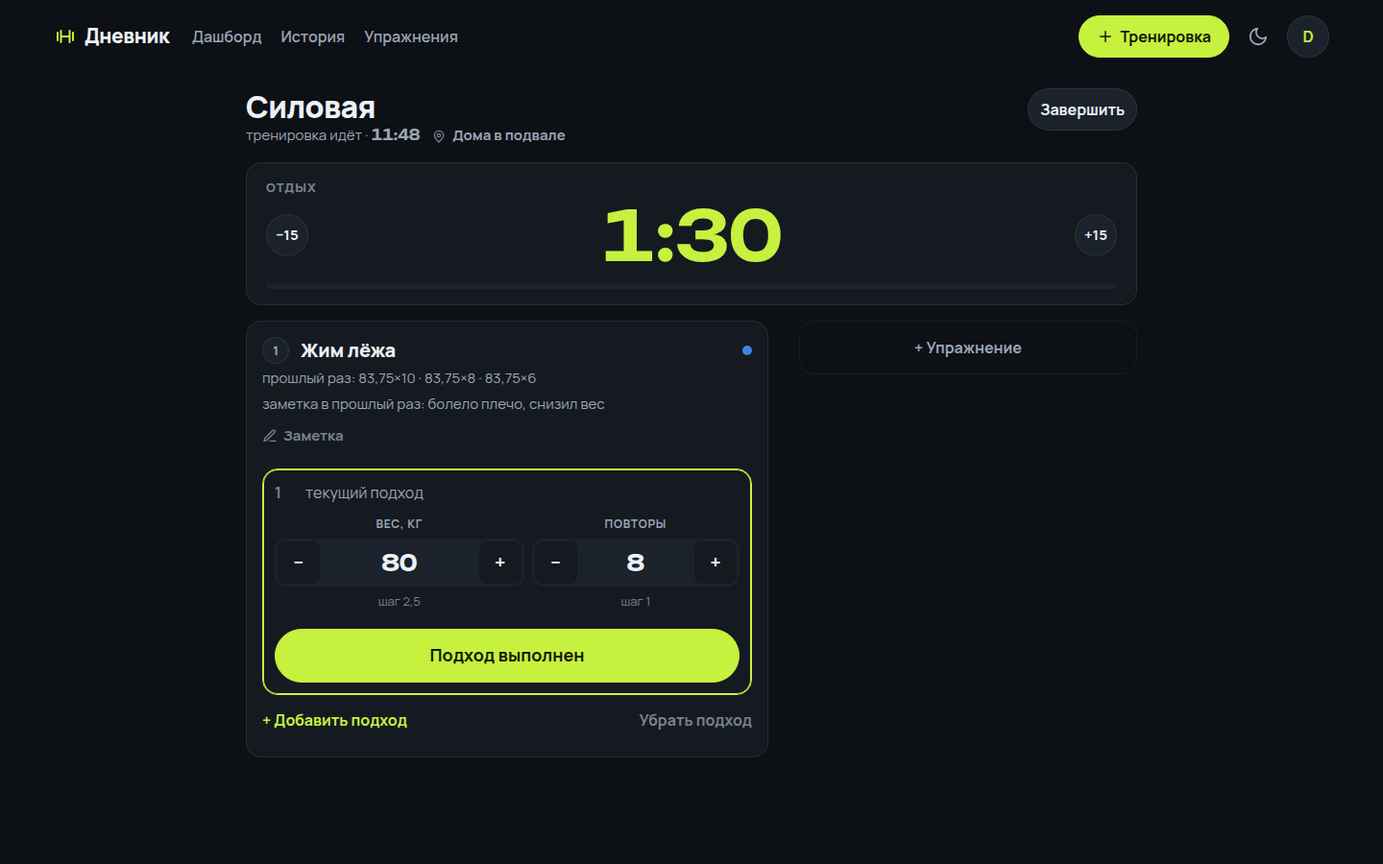
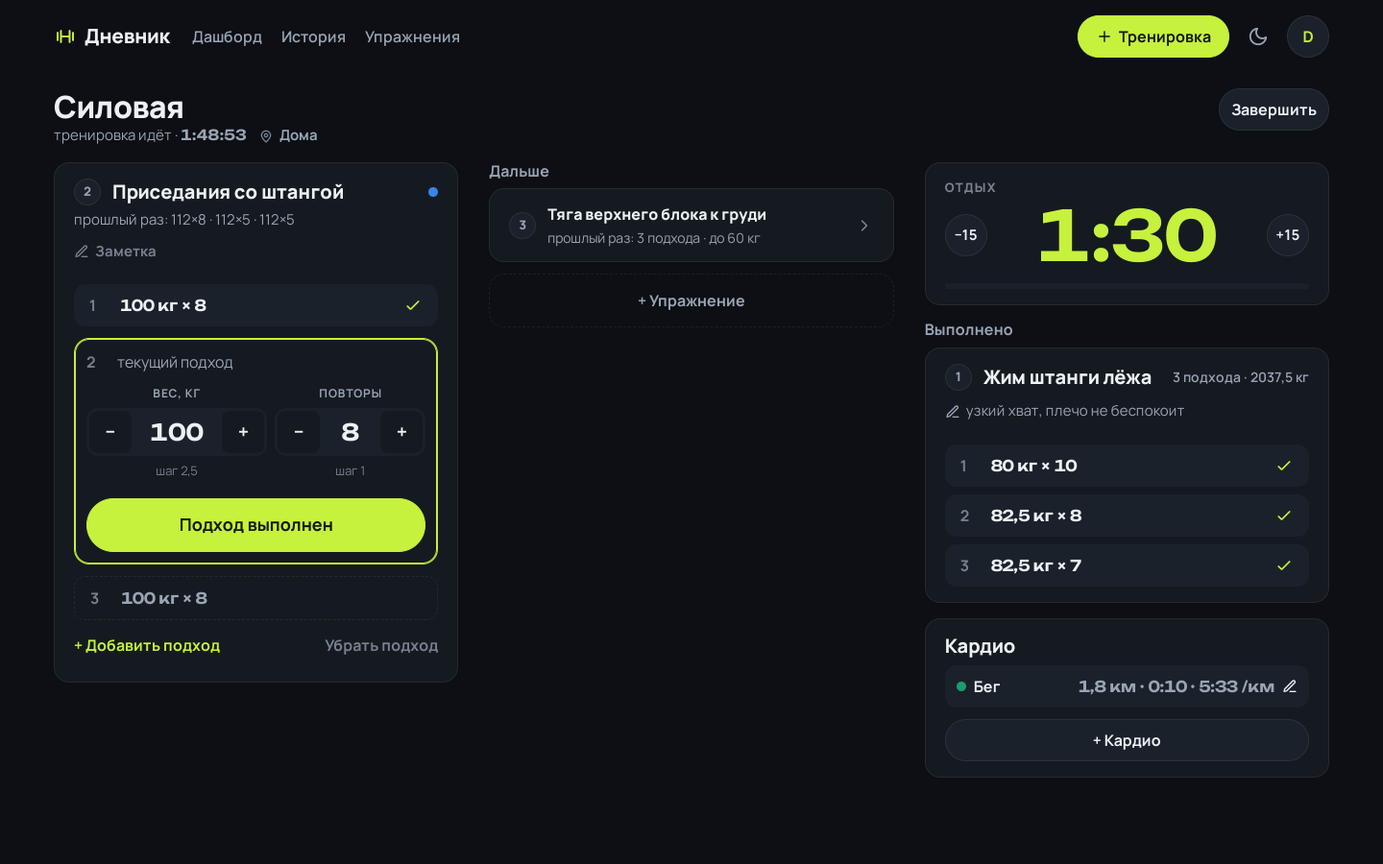
CLAUDE.md: ПК-версия во всю ширину, новые скриншоты
Раздел «Десктоп» переписан под дашборд-раскладку: мер осталось две
(dialog и dual), :where у правила меры, предел страницы 1600px, токены
широкого окна, плитки и колонок досок, высота шапки из её отступа;
обёртки с display: contents и неизменный порядок DOM, свои классы вместо
утилит с !important, последовательности колонками. По экранам: живой
экран (две колонки / три зоны, таймер не липкий — и почему), итог,
дашборд и история на средних экранах, справочник, страница упражнения,
профиль, окна, вход. Проверка телефона — сравнением геометрии с эталонным
сервером. Пересняты скриншоты живого экрана, итога, профиля и новостей.

diff --git a/CLAUDE.md b/CLAUDE.md
@@ -60,7 +60,7 @@
 ## Дизайн (эталон утверждён 25.08.2026)
 
 - Визуальный эталон — макеты семи экранов (дашборд моб. и десктоп, живой режим, кардио-форма, история, профиль, «что нового»); PNG-экспорты лежат в `docs/design/`. Верстать по ним: компоновка, плотность, скругления, иерархия текста.
-- Файлы `docs/design/*-desktop.png`, **кроме `dashboard-desktop.png`**, — не макеты дизайнера, а утверждённые скриншоты реализации: десктопных макетов для этих экранов не рисовали. Сверять с ними компоновку можно, но при расхождении с правилами ниже главнее правила.
+- Файлы `docs/design/*-desktop.png`, **кроме `dashboard-desktop.png`**, — не макеты дизайнера, а утверждённые скриншоты реализации: десктопных макетов для этих экранов не рисовали. Живой экран, итог, профиль и «Что нового» пересняты 03.10.2026, когда ПК-версия стала дашбордом во всю ширину; каталог и история на 1440 с тех пор не менялись. Сверять с ними компоновку можно, но при расхождении с правилами ниже главнее правила.
 - Тёмная тема — основная (как в макетах); светлая строится из тех же ролей токенов, ниже даны оба набора. Bootstrap-переменные (`--bs-body-bg`, `--bs-body-color` и т.п.) переопределяются из tokens.css под оба значения `data-bs-theme`.
 - **Шрифты** (Google Fonts, woff2-файлы хранить локально в `static/fonts/`): Unbounded 600/700 — крупные числа и таймеры (утилитарный класс `.num`); Manrope 400–800 — весь остальной текст. Fallback: `system-ui, sans-serif`. Unbounded лежит одним сабсетом (`unbounded-subset.woff2`): в `.num` попадают только цифры, знаки и единицы вроде «кг», «повторов», поэтому штатные сабсеты Google качали 82 КБ ради букв, которых там не бывает. Набор символов взят с запасом — вся базовая кириллица, — так что новое слово внутри `.num` ничего не сломает; команда перегенерации записана в шапке `static/css/fonts.css`. Три реально нужных файла шрифтов предзагружаются (`rel="preload"` в `_page.html`), остальные сабсеты Manrope браузер не запрашивает.
 - **Токены тёмной темы** (из макетов): фон `#0D1015`; карточка `#151A21`; приподнятая поверхность `#1B222B`; линия `rgba(255,255,255,.08)`; текст `#EDF1F7`, вторичный `#9AA5B5`, приглушённый `#77828F`; акцент `#C6F13E` (текст на акценте `#141A08`); успех/положительная дельта `#0ca30c`.
@@ -71,13 +71,23 @@
 
 ## Десктоп (768 / 1200)
 
-- **Два брейкпоинта и никаких новых**: `@media (min-width: 768px)` (появляются верхняя навигация и CTA, исчезает нижняя) и `(min-width: 1200px)` (многоколоночные раскладки). Правки десктопа живут только внутри них — **мобильный вид неприкосновенен**, и это проверяется скриншотом 375px до/после.
-- **Ширину задаёт страница, а не компонент.** `{% block main_class %}` ставит меру: `app-main-narrow` (26rem — подтверждения, смена пароля), `app-main-form` (34rem — формы и справочники), `app-main-read` (44rem — история и новости), `app-main-dual` (34rem → 70rem на 1200px — профиль, живой режим, итог), `app-main-feed`/`app-main-catalog` (свои раскладки на 1200px). Правило одно: `.app-main > * { max-width: var(--app-measure); margin-inline: auto }`. Не возвращать `max-width` компонентам — из-за этого один `.app-rows` тянул одну ширину в трёх разных раскладках.
-- **Отступы и ширины — только токенами**: `--app-space-*` (шкала по 0.25rem), `--app-measure-*`, `--app-gutter` (1 → 1.5 → 3.5rem, один и тот же у шапки и `.app-main`, иначе на 1920px они расходятся). Предел страницы — `--app-measure-page` (1440px), по нему выровнена и шапка. Внутренний боковой отступ карточки — `--app-card-inset` (16px, с 768px 20px), **один на все карточки экрана**: раньше плитки брали 20px, строки 16px, и левые края текста соседних карточек стояли на разных вертикалях. Голая `.app-card` отступов не имеет — их даёт роль карточки, а для простой «заголовок, текст, кнопка» есть `.app-panel`.
-- **История на 1200px — плотные строки**: колонки задаёт список (`.app-feed`), карточки берут их через `grid-template-columns: subgrid`, поэтому цифры выравниваются через все недели без магических ширин. Всё под `@supports (subgrid)`. Состав метрик у силовой и кардио различается, поэтому колонки позиционные: 3-я — время, 4-я — «сколько», 5-я — «насколько интенсивно». Место и заметка **делят 6-ю колонку** (`.app-workout-meta`): своего трека месту не дают, потому что `max-content` зарезервировал бы его ширину во всех строках, а у истории до появления справочника места нет вовсе. На телефоне обёртка не образует бокса (`display: contents`), поэтому карточка рендерится как до фичи; на 1200px внутри колонки это один текстовый прогон с единственной точкой обрезки, а зазор даёт `margin`, а не символ-разделитель — тот остался бы висеть при обрезке. Классы в 1200-блоке перечислены явно, без `> *`: мобильное правило `.app-workout-meta > .app-place` весит два класса и перебило бы селектор с универсальным.
+- **Два брейкпоинта и никаких новых**: `@media (min-width: 768px)` (появляются верхняя навигация и CTA, исчезает нижняя) и `(min-width: 1200px)` (многоколоночные раскладки). Правки десктопа живут только внутри них — **мобильный вид неприкосновенен**, и это проверяется не на глаз, а сравнением геометрии: все страницы и состояния окон на 375/390px против эталонного сервера на исходном коммите (git worktree) — расхождение в любом элементе значит правку телефона.
+- **ПК-версия — полноценный дашборд, а не растянутый телефон** (решение 03.10.2026). Каждая страница идёт во всю колонку страницы и раскладывается своими сетками: карточки рядом, а не узкой колонкой по центру широкого экрана. Окна — широкие диалоги, а не 26rem-шторки. Навигация — прежняя верхняя панель из макета дашборда.
+- **Ширину задаёт страница, а не компонент.** По умолчанию страница идёт во всю колонку (`--app-measure: none`). Мер осталось две, и обе ставит `{% block main_class %}`: `app-main-dialog` (34rem по центру экрана и по вертикали — подтверждения удаления, выход, пароль, ошибки, служебные страницы allauth: узкая колонка у верхнего края широкой страницы выглядела потерянной) и `app-main-dual` (70rem — двухколоночная форма кардио: поле шире 34rem удобнее не становится). Правило одно: `:where(.app-main) > * { max-width: var(--app-measure); margin-inline: auto }` — `:where` обнуляет специфичность, и собственное ограничение компонента (`.app-form-actions`, `.app-empty`) побеждает при любом порядке в файле. Не возвращать `max-width` компонентам — из-за этого один `.app-rows` тянул одну ширину в трёх разных раскладках.
+- **Отступы и ширины — только токенами**: `--app-space-*` (шкала по 0.25rem), `--app-measure-*`, `--app-gutter` (1 → 1.5 → 3.5rem, один и тот же у шапки и `.app-main`, иначе на 1920px они расходятся). Предел страницы — `--app-measure-page` (1600px), по нему выровнена и шапка: на 1920 остаются поля, а сетки ещё не растягиваются до нечитаемых. Широкое окно — `--app-measure-wide` (56rem), минимальная плитка в `auto-fill` — `--app-measure-tile` (14rem: уже ~210px двухстрочные имена справочника не помещаются). Число колонок всех «досок» (одинаковых карточек: итог, история на средних экранах, новости, строки справочников, история подходов) — один токен `--app-board-cols`: 1 на телефоне, 2 с 768, 3 с 1200. Высота шапки на десктопе считается из её отступа и тач-таргета (`--app-header-height`, 68/76px), а не задаётся числом: по ней встают якоря и липкая шапка панели, а прежние 56px уводили их под шапку; на телефоне токен прежний. Внутренний боковой отступ карточки — `--app-card-inset` (16px, с 768px 20px), **один на все карточки экрана**: раньше плитки брали 20px, строки 16px, и левые края текста соседних карточек стояли на разных вертикалях. Голая `.app-card` отступов не имеет — их даёт роль карточки, а для простой «заголовок, текст, кнопка» есть `.app-panel`.
+- **Обёртки для сеток — `div` без роли с `display: contents` ниже 768** (`.app-summary`, `.app-summary-list`, `.app-modal-cols/col`, `.app-picker-list`, `.app-catalog-group`, `.app-transfer`, `.app-form-cols/col`, `.app-news-list`, `.app-auth-aside`): на телефоне они не образуют боксов, дерево и отступы прежние, а на ПК становятся колонками. Порядок DOM не меняется — на него опираются тесты. Никогда не на кнопки, ссылки, списки и секции с подписью. Структурные селекторы, которые обёртка сломала бы, переводятся на неё: `.app-group-title:first-of-type` стал `.app-catalog-group:first-child > .app-group-title`, иначе отступ сняло бы у заголовка каждой группы — и на телефоне.
+- **Утилиты Bootstrap с `!important` на элементах, которые на ПК меняют размер, заменены своими классами** с тем же мобильным значением: `app-btn-fill` вместо `w-100` (кнопки, которые на ПК встают в ряд по содержимому), `app-start-mode` вместо `mt-3`. Из медиазапроса утилиту не перебить.
+- **Последовательность — колонками, а не строками сетки.** Упражнения в итоге тренировки раскладываются CSS `columns`: колонки заполняются сверху вниз, и 1, 2, 3 идут по первой; сетка по строкам дала бы 1, 3, 5 по левому столбцу. Новости, наоборот, — доска по рядам: новое слева сверху, хронология читается от новой к старой.
+- **История на средних экранах — доска из двух колонок** (недели, «Показать ещё» и пустое состояние — во всю строку; подгрузка вставляет карточки прямо в сетку). **На 1200px — плотные строки**: колонки задаёт список (`.app-feed`), карточки берут их через `grid-template-columns: subgrid`, поэтому цифры выравниваются через все недели без магических ширин. Всё под `@supports (subgrid)`. Состав метрик у силовой и кардио различается, поэтому колонки позиционные: 3-я — время, 4-я — «сколько», 5-я — «насколько интенсивно». Место и заметка **делят 6-ю колонку** (`.app-workout-meta`): своего трека месту не дают, потому что `max-content` зарезервировал бы его ширину во всех строках, а у истории до появления справочника места нет вовсе. На телефоне обёртка не образует бокса (`display: contents`), поэтому карточка рендерится как до фичи; на 1200px внутри колонки это один текстовый прогон с единственной точкой обрезки, а зазор даёт `margin`, а не символ-разделитель — тот остался бы висеть при обрезке. Классы в 1200-блоке перечислены явно, без `> *`: мобильное правило `.app-workout-meta > .app-place` весит два класса и перебило бы селектор с универсальным.
 - **Справочник упражнений на 1200px — мастер-деталь**: `ExerciseDetailView` смотрит `HX-Request` и отдаёт `_exercise_detail_body.html` вместо страницы; отдельного URL у панели нет, чтобы проверка доступа осталась в одном месте. Клик перехватывается в JS: в htmx `preventDefault()` для клика по `<a>` срабатывает раньше фильтра события, поэтому `hx-trigger="click[matchMedia…]"` убил бы навигацию на мобильном. График после свопа пересобирается через `appCharts.destroy()` — иначе Chart.js падает на переиспользованном canvas. Левая колонка 30rem и **без внутренней прокрутки**: своя полоса торчала посреди экрана, а липкой колонку делать нельзя — залипший элемент выше вьюпорта перестаёт двигаться, и всё ниже кромки становится недостижимым. По той же причине липкая только шапка панели (`.app-exercise-head`), а не панель: у упражнения с двумя десятками тренировок она уходит на три экрана. Элементы списка общаются с JS через `data-exercise-item` / `data-exercise-link`, а не через классы: классы стилевые и меняются вместе с вёрсткой, а в мастер-деталь одинаково попадают и плитка, и строка. Порядок блоков на 1200px задаёт `order` у прямых детей `.app-exercise`, поэтому **новый блок обязан быть одной секцией со своим `order`**: заголовок и список по отдельности разъедутся по разным местам экрана. Ритм между блоками — `gap` флекс-колонки `.app-exercise` на всех ширинах, а не поля блоков: при перестановке `order` поле «снизу» оказывалось не у того соседа, и график вставал вплотную к настройкам. Сводка «По местам» (рекорд и число тренировок в каждом месте) считается в Python по уже загруженным подходам — `select_related("workout__location")` добавляет один LEFT JOIN в тот же запрос, поэтому бюджет 9 не двигается; показывается только при двух и более разрезах, «Место не указано» — такой же разрез, как остальные.
 - **Каталог упражнений делится на два блока**: сверху «Я тренирую» — плитки упражнений с записанными тренировками (рекорд, число тренировок, дата последней, свежие первыми), ниже полный справочник по группам мышц. Признак — `workouts_count > 0`, **а не наличие рекорда**: метрика весовых упражнений это вес, поэтому у подтягиваний с собственным весом и у упражнения со сменённой единицей рекорда нет, а тренировок двадцать. Дата берётся вторым агрегатом на том же джойне (`Max("sets__workout__started_at", filter=…)`) — это ноль дополнительных запросов, а бюджет каталога упёрт в 7. Выполненное упражнение остаётся и в справочнике: иначе в «Груди» не оказалось бы жима лёжа. Один URL поэтому соответствует двум элементам, и подсветка выбранного зажигает оба — это следствие решения, а не дефект. При активном поиске или фильтре блок плиток скрывается: тогда нужен один список результатов.
-- **Живой экран на 1200px — явные ряды**: правая колонка (план, выполненное, кардио) идёт своими рядами 4–6, а текущее упражнение занимает ряды 4–7, где последний — `1fr` и забирает его лишнюю высоту. С автоматическими рядами колонки были связаны общей строкой, и «Выполнено» начиналось только под карточкой степперов. Новый блок правой колонки — новый ряд.
+- **Живой экран — явные ряды**: с 768 две колонки (слева текущее упражнение со степперами, справа стопка: отдых, «Дальше», «Выполнено», кардио), с 1200 три равные зоны — «Сейчас», «Дальше» и колонка из таймера, выполненного и кардио. Текущее упражнение (и «Дальше» на 1200) занимает ряды до последнего `1fr`, который забирает его лишнюю высоту; с автоматическими рядами колонки были бы связаны общей строкой, и правая стопка начиналась бы только под карточкой степперов. Пустой ряд схлопывается в ноль — поэтому `row-gap` нет, отступы дают блоки. Без текущего упражнения (`:not(:has(.app-live-now *))`) блоки занимают и рабочую колонку. **Таймер не липкий**: в сетке липкость ограничена ячейкой, а ряд таймера равен его же высоте — двигаться ему некуда, и прежнее «таймер на виду» так и не работало. Новый блок колонки — новый ряд.
+- **Итог тренировки — дашборд**: шапка с «Повторить» и «Удалить» справа, сводка в ряд, ниже упражнения и кардио колонками `--app-board-cols` (см. «Последовательность — колонками»).
+- **Дашборд на средних экранах**: «Подготовлено», рекорды и последние — карточками со строками, как в макете, с 768, а не с 1200; рекорды и последние стоят рядом, прожектор со спарклайном появляется с 768 — порог в `dashboard.js` обязан совпасть с CSS. На 1200 боковая часть снова колонкой справа от графика (вместе с `display` сбрасывается и `align-items`: `start` из 768 сжал бы карточки флекс-столбика до ширины содержимого).
+- **Справочник до 1200 — во всю ширину**: плитки «Я тренирую» заполняют ряд (`auto-fill` по `--app-measure-tile`), справочник идёт двумя колонками, группа — неразрывный блок; отфильтрованный список без заголовков групп колонками не режется. **Страница упражнения** — во всю ширину: перестановка блоков, сетка настроек и крупный график — с 768, на 1200 четыре блока настроек в один ряд (`:where(.app-main) > .app-exercise` — панель каталога не прямой ребёнок main, её правило не задевает).
+- **Профиль — плитки**: с 768 две колонки, с 1200 четыре — пользователь и три плитки справочников с крупными счётчиками в одном ряду, как плитки дашборда, ниже настройки, приложение и аккаунт. Счётчики уже посчитаны: бюджет профиля 9 из 9 не тронут.
+- **Окна на ПК — диалог по центру шириной с форму** (34rem), с потолком по высоте экрана и своей прокруткой; широкий вариант `.app-modal-wide` (56rem) — у окна новой тренировки (только когда слева есть идущая или подготовленные) и у выбора упражнения (слева найденное со своей прокруткой, справа форма создания; пока создавать нечего, справочник — в две колонки). Своё правило `.app-pick-list form { display: contents }` растворяет формы в строках списка, поэтому форме создания в сетке возвращён `display: block`. Нижняя шторка телефона не меняется.
+- **Вход и регистрация с 1200** — бренд-панель слева на всю высоту (логотип и короткая подпись о дневнике), форма справа; до 1200 экран прежний.
 - **Отделка описана один раз** в секции перед первым медиазапросом: `--app-transition-ui` (анимируем только цвет, фон, рамку, filter, тень и transform — никогда width/height/padding), hover целиком внутри `@media (hover: hover) and (pointer: fine)` (иначе на тапе подсветка залипает), фокус — `--app-focus-outline` через `:where(...)` с нулевой специфичностью. `prefers-reduced-motion` гасит токены движения, а не все переходы: у полосы таймера отдыха переход функциональный.
 
 ## Вне скоупа v1 — не делать и не предлагать «на вырост»
